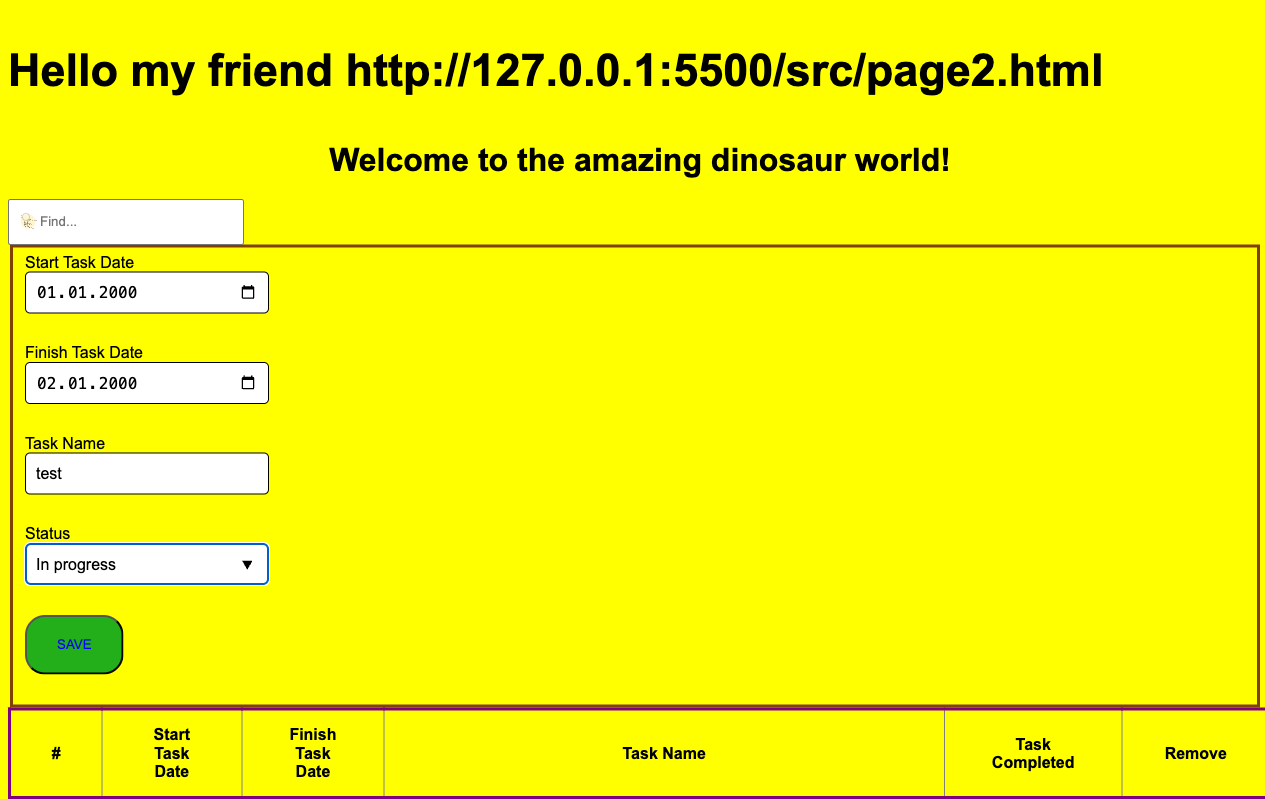
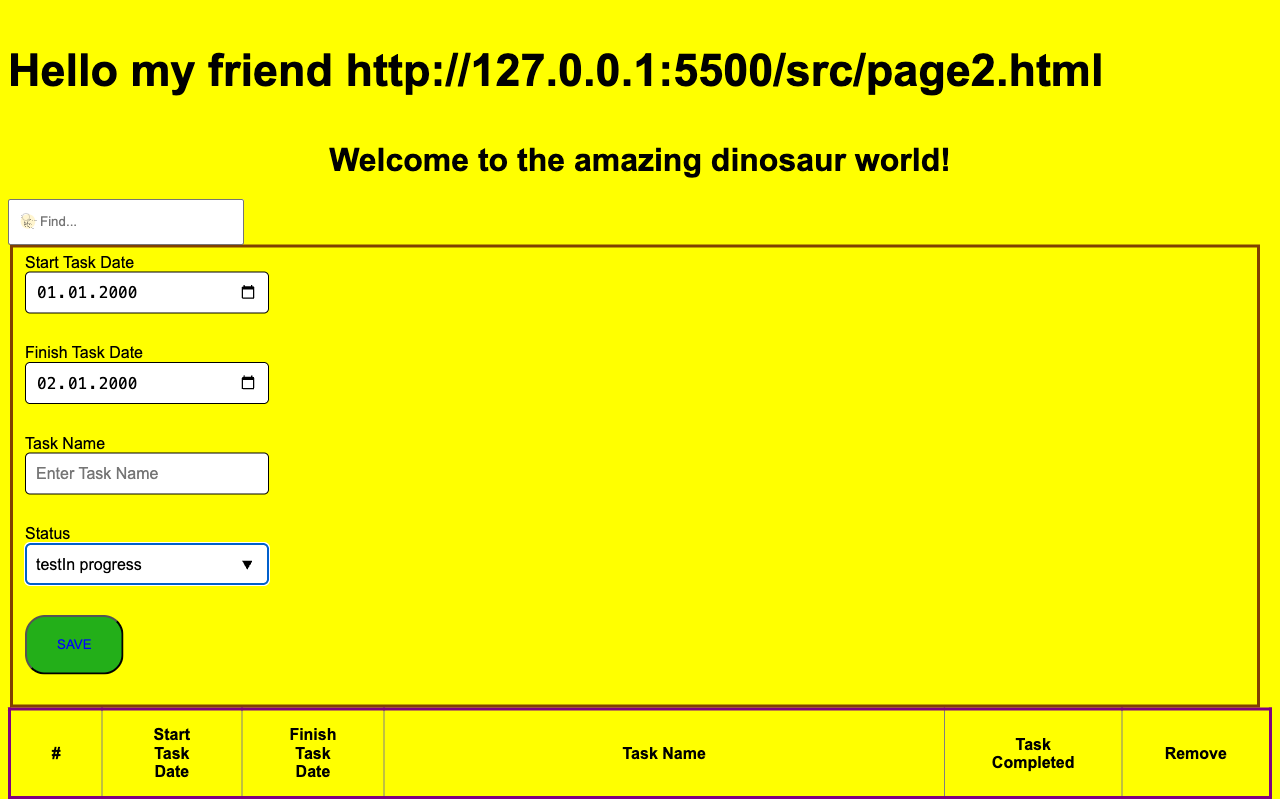
update test page 2 2

diff --git a/tests/screenshotPage2.spec.ts b/tests/screenshotPage2.spec.ts
@@ -26,9 +26,12 @@ test.describe('screenshot', () => {
     //page.locator("hashtag#username").fill("JohnDoe");
     page.locator('input#start').fill('2000-01-01');
     //await page.fill('input#start', '2000-01-01');
-    await page.fill('input#finish', '2000-01-02');
-    await page.fill('input#taskname', 'test');
-    await page.fill('input#comp', 'In progress');
+    page.locator('input#finish').fill('2000-01-02');
+    //await page.fill('input#finish', '02.01.2020');
+    page.locator('input#taskname').fill('test');
+    //await page.fill('input#taskname', 'test');
+    page.locator('input#comp').fill('In progress');
+    //await page.fill('input#comp', 'In progress');
     //await page.pause();
     await page.screenshot({ path: 'screenshots/02-form-filled.png', fullPage: true });
 
